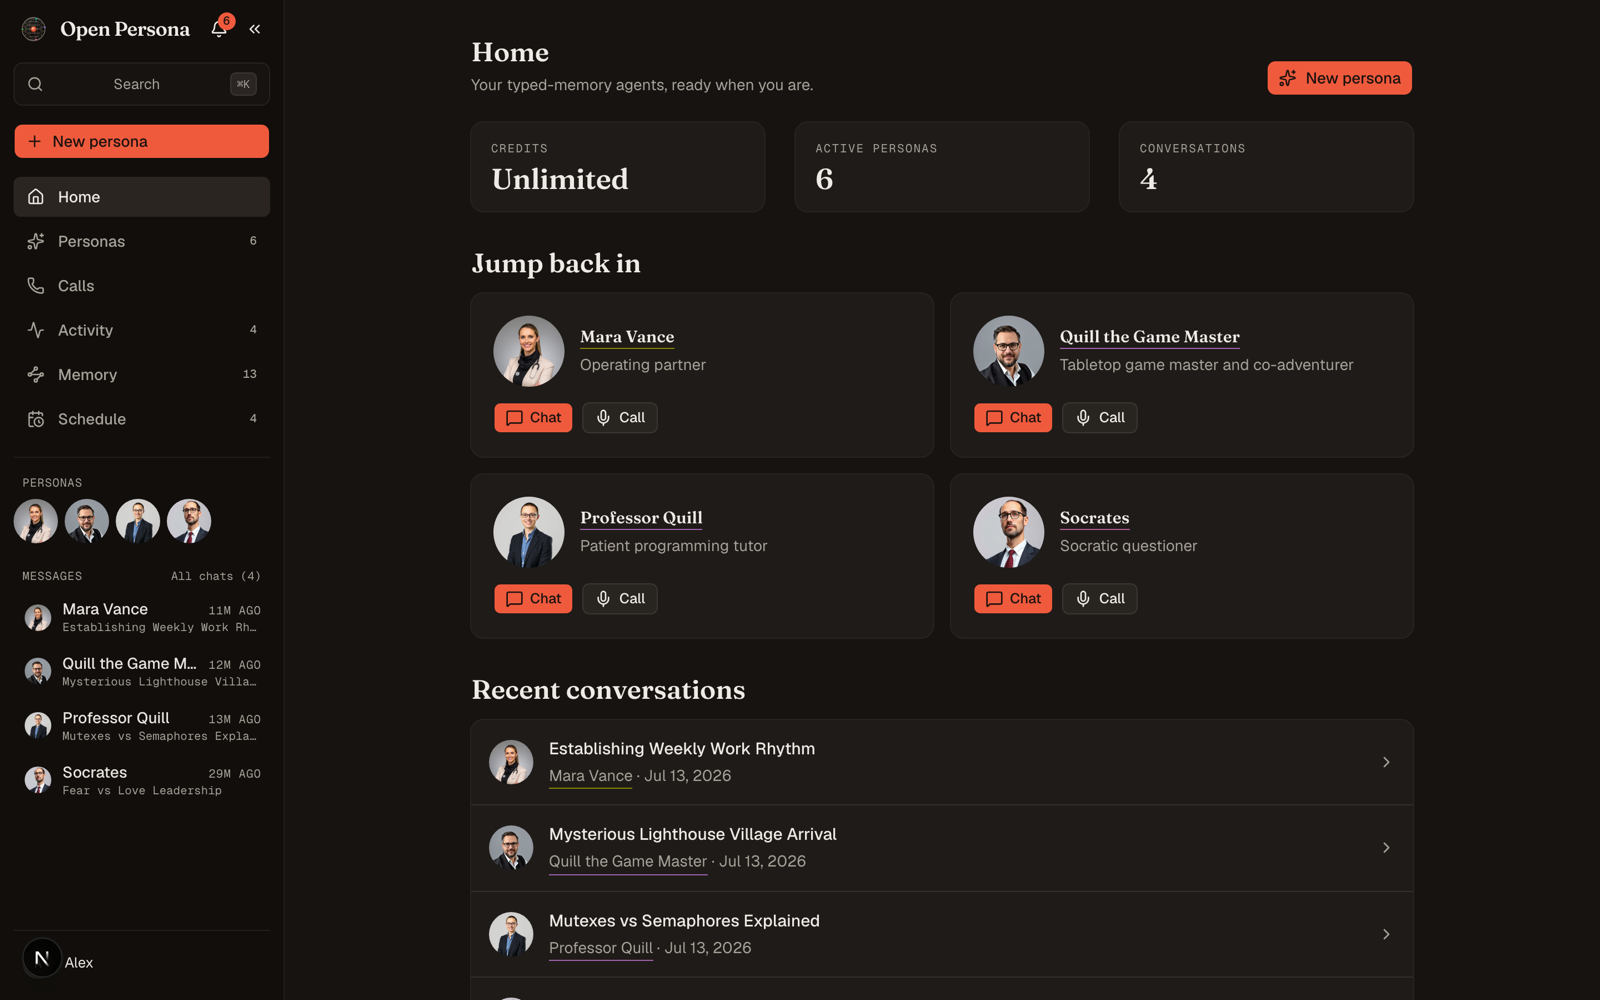
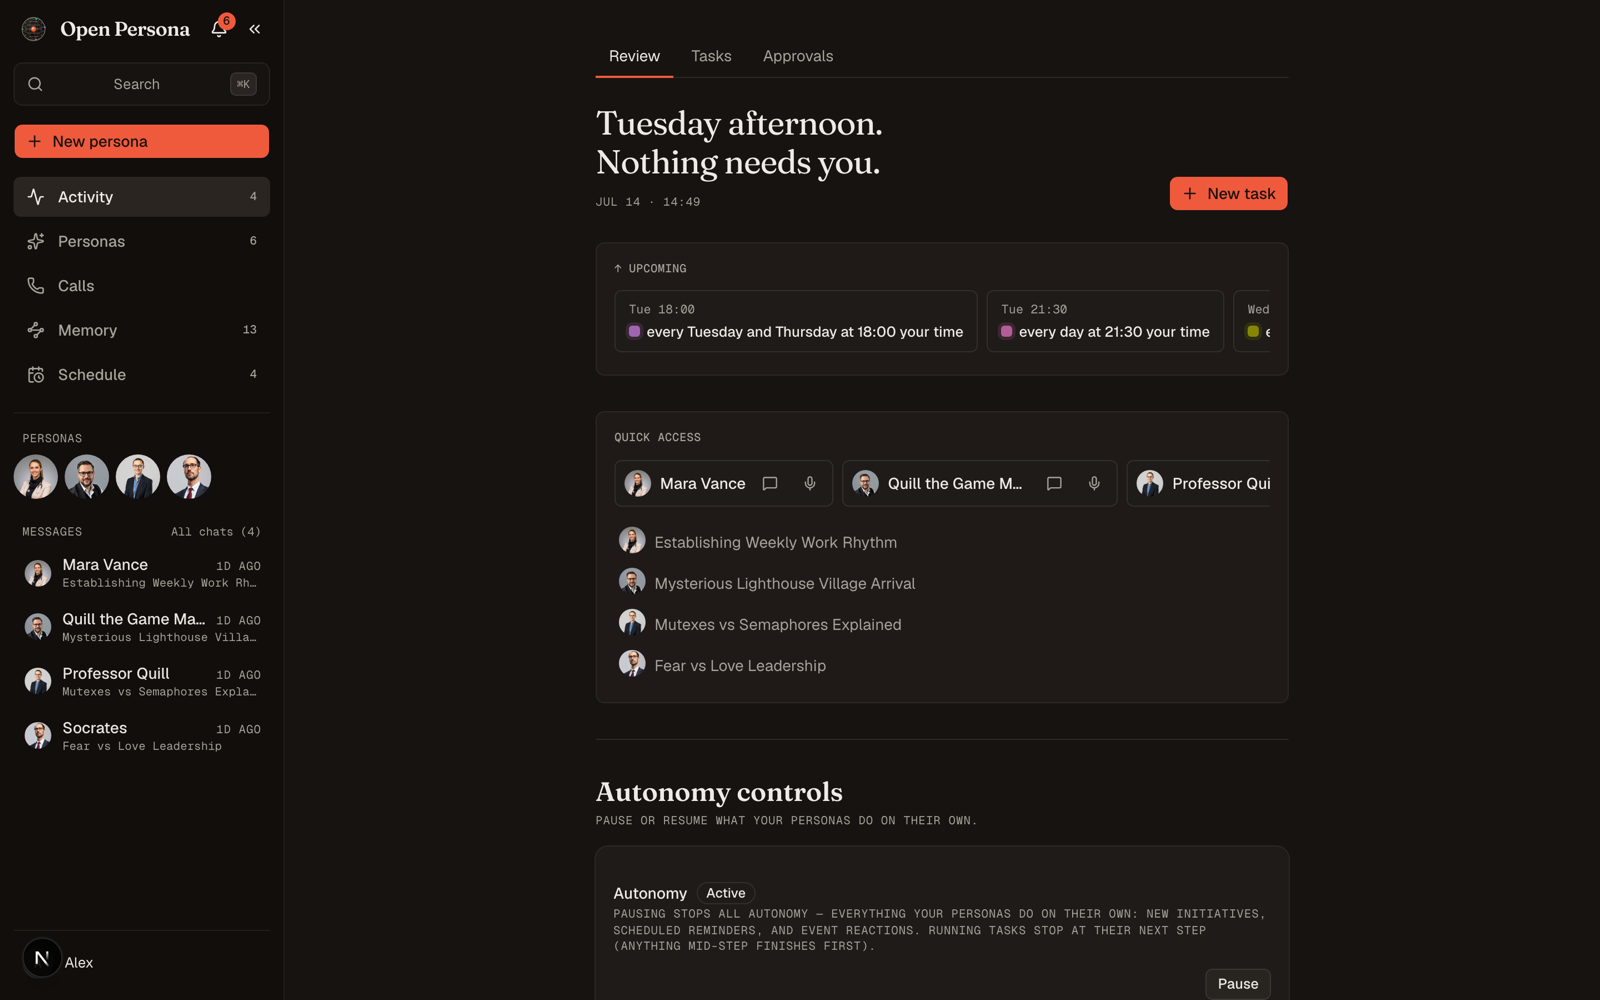
docs(readme): reshoot for the R11 redesign wave + connector-claims correction
All screenshots retaken against current main: the new Activity home
('Tuesday afternoon. Nothing needs you.'), THE consolidated persona page
(new shot, typed-memory section), connectors v3 brand tiles (new shot),
month calendar, model picker inside the persona page, presence-ring
sidebar throughout. Connector claims now match the product's own UI:
Telegram/WhatsApp/SMS/email connectable today, Discord & Slack honestly
'coming soon' (OAuth mounting) — root README section + roadmap + the
connectors package table all corrected.

diff --git a/README.md b/README.md
@@ -41,6 +41,8 @@ Clone it, set one model key, and run the whole product locally. No Docker, no si
 
 A persona is a typed YAML document with four separate, versioned memory stores — **identity** (immutable at runtime), **self-facts**, **worldview** (with epistemic tags), and **episodic**. The mutable stores are append-only with full history and one-call rollback; every write carries its source (`system` / `user` / `persona_self`) and lands in an audit log. Episodic memory runs a multi-resolution pyramid — raw turns compact into gists, gists into summaries — so a persona recalls last week's details without dragging last week's transcripts into context.
 
+![The persona page — identity, constraints, self-facts, autosaving](assets/readme/persona-page.png)
+
 ### 🕸 One brain, many personas — and it's yours to edit
 
 Beyond each persona's own memory, a user-scoped **knowledge graph** lets every persona draw on what you told the others: the tutor adapts to a struggle you mentioned to your coach; the planner budgets for the move it was never told about directly. Knowledge is applied where relevant (never recited), held tentatively when old, and honestly attributable when you ask *"how do you know that?"* — with wellbeing-sensitive topics handled with explicit care. The **Memory** page draws it all as a living, force-directed map with typed links (semantic, entity, temporal, causal): correct a node and every persona retrieves the fix; delete it and it's gone from what they all recall.
@@ -81,7 +83,9 @@ A built-in toolbox (web search, sandboxed code execution, image generation, diag
 
 ### 🔌 Reach them where you actually talk
 
-Link your account once and DM your persona by name on **Telegram, Discord, or Slack** — persona switching, `/new`, and conversation boundaries all work over a real chat app, with the same ownership isolation as the web. WhatsApp, SMS (Twilio) and email (Postmark) adapters are in the tree behind provider credentials.
+Connect the apps you already live in and message a persona by name — **Telegram, WhatsApp, SMS, or email** connect today with a guided flow (deep link or a verification code); **Discord and Slack are next** (adapters built, OAuth mounting in progress — the UI says "coming soon" because it's honest). Persona switching, `/new`, and conversation boundaries all work over a real chat app, with the same ownership isolation as the web.
+
+![Connectors — reach your personas anywhere](assets/readme/connectors.png)
 
 ### 🎛 Pick the brain, see the price
 
@@ -280,14 +284,14 @@ Shipped and load-bearing:
 - [x] Episodic multi-resolution memory (the pyramid)
 - [x] Real-time voice with emotion, barge-in and shared call memory
 - [x] Autonomy: schedules + calendar, initiative, event triggers, approvals spine, activity inbox
-- [x] Telegram, Discord & Slack connectors with a guided connect flow
+- [x] Telegram, WhatsApp, SMS & email connectors with a guided connect flow
 - [x] Per-persona model selection with live price tags + honest per-turn cost accounting
 - [x] Specialities, MCP catalog, bring-your-own MCP, sandboxed execution
 - [x] 60 hand-authored starter personas
 
 Coming:
 
-- [ ] WhatsApp, SMS and email connectors go live (adapters staged, provider verification in progress)
+- [ ] Discord & Slack connectors go live (adapters built, OAuth mounting in progress)
 - [ ] Managed embedded Postgres becomes the community default (zero-touch auto-import from SQLite)
 - [ ] Unified forget — one deletion that reaches every memory layer, graph and episodic alike
 - [ ] Autonomy defaults maturing from opt-in feature gates toward safe-by-default

diff --git a/packages/connectors/README.md b/packages/connectors/README.md
@@ -1,6 +1,6 @@
 # persona-connectors
 
-> The messaging trunk for Open Persona — DM your persona by name on Telegram, Discord, or Slack, with WhatsApp, SMS, and email adapters staged.
+> The messaging trunk for Open Persona — message your persona by name on Telegram, WhatsApp, SMS, or email, with Discord and Slack next.
 
 **License:** [PolyForm Noncommercial 1.0.0](LICENSE) — the application layer, not the MIT engine.
 
@@ -29,12 +29,12 @@ only its platform's glue:
 
 | Platform | Status |
 | --- | --- |
-| Telegram | Shipped (link via deep link from the web app) |
-| Discord | Shipped (OAuth link) |
-| Slack | Shipped (OAuth link) |
-| WhatsApp | Staged — in the tree behind provider credentials |
-| SMS (Twilio) | Staged — in the tree behind provider credentials |
-| Email (Postmark) | Staged — in the tree behind provider credentials |
+| Telegram | Connectable (deep link from the web app) |
+| WhatsApp | Connectable (verification code) |
+| SMS (Twilio) | Connectable (verification code) |
+| Email (Postmark) | Connectable (verification code) |
+| Discord | Coming soon — adapter built, OAuth mounting in progress |
+| Slack | Coming soon — adapter built, OAuth mounting in progress |
 
 Turn platforms on from the web app under **Settings → Connectors** — each shows
 what it is and what it can do before you connect it.
